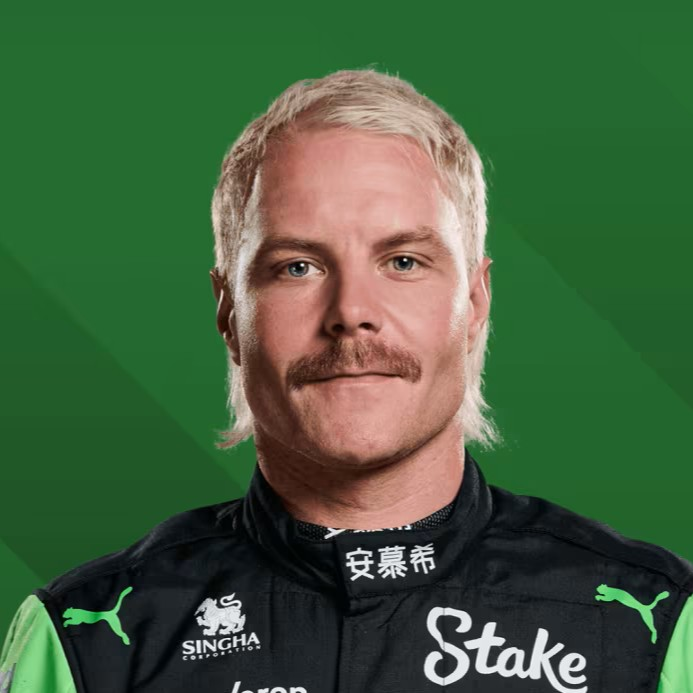
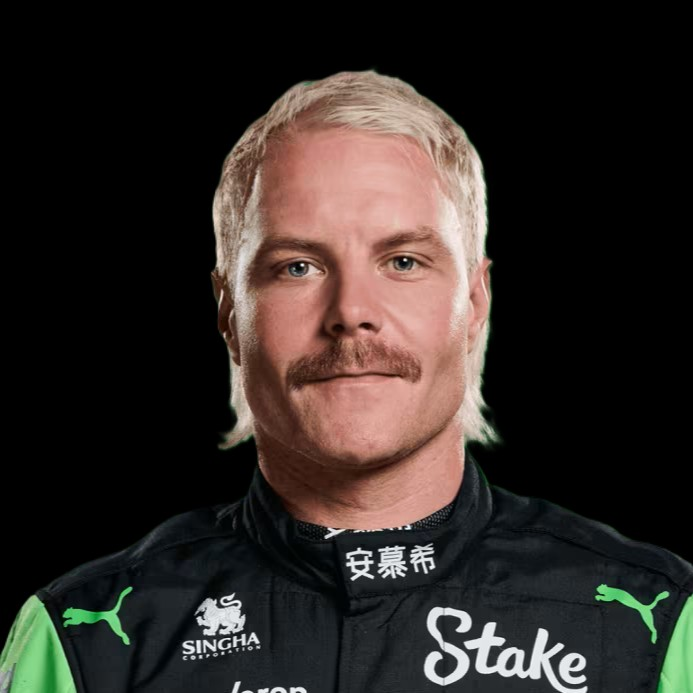
modified imgs of drivers to be dark in dark mode and white in light mode

diff --git a/js/master.js b/js/master.js
@@ -20,6 +20,8 @@ document.addEventListener("click", event => {
 // Mode Options
 
 const modes = document.querySelectorAll(".settings-box .mode-options span i");
+const driversImgs = document.querySelectorAll(".drivers .driver-box .driver-info img");
+let imgsPath = ["lewis-hamilton-mercedes.jpg", "max-verstappen-red-bull-racing.jpg", "CharlesLeclerc.png", "lando-norris-mclaren.jpg", "fernando-alonso-aston-martin-r.jpg", "esteban-ocon-alpine.jpg", "ValtteriBottas.jpg", "kevinmagnussen.png", "alex-albon-williams.jpg", "yuki-tsunoda-racing-bulls.jpg"];
 
 if (localStorage.getItem("mode") !== null) {
   if (localStorage.getItem("mode") == 'true') {
@@ -30,6 +32,12 @@ if (localStorage.getItem("mode") !== null) {
     document.documentElement.style.setProperty("--bg-color", "#EEE");
     document.documentElement.style.setProperty("--border-color", "#DDD");
     document.documentElement.style.setProperty("--shadow-color", "#FFFFFF18");
+
+    let i = 0;
+    driversImgs.forEach((img) => {
+      img.src = `imgs/driversLightMode/${imgsPath[i]}`;
+      i++;
+    });
   }
 }
 
@@ -44,6 +52,12 @@ modes.forEach(mode => {
       document.documentElement.style.setProperty("--bg-color", "#EEE");
       document.documentElement.style.setProperty("--border-color", "#DDD");
       document.documentElement.style.setProperty("--shadow-color", "#00000053");
+
+      let i = 0;
+      driversImgs.forEach((img) => {
+        img.src = `imgs/driversLightMode/${imgsPath[i]}`;
+        i++;
+      });
     } else {
       localStorage.setItem("mode", false);
       document.documentElement.style.setProperty("--main-color", "#000");
@@ -53,6 +67,12 @@ modes.forEach(mode => {
       document.documentElement.style.setProperty("--font-color4", "#999");
       document.documentElement.style.setProperty("--border-color", "#555");
       document.documentElement.style.setProperty("--shadow-color", "#FFFFFF20");
+
+      let i = 0;
+      driversImgs.forEach((img) => {
+        img.src = `imgs/drivers/${imgsPath[i]}`;
+        i++;
+      });
     }
   });
 });

diff --git a/css/master.css b/css/master.css
@@ -91,11 +91,11 @@ a {
 }
 
 ::-webkit-scrollbar-track {
-  background: #222;
+  background: #111;
 }
 
 ::-webkit-scrollbar-thumb {
-  background: linear-gradient(to bottom, #000 20%, var(--selector-color));
+  background: linear-gradient(to bottom, var(--main-color) 20%, var(--selector-color));
   border-radius: 10px;
 }
 

diff --git a/index.html b/index.html
@@ -383,7 +383,9 @@
     <!-- End Drivers -->
     <!-- Start Cars -->
     <div class="cars" id="cars">
-
+      <div class="container">
+        <h2 class="h2">F1 Cars</h2>
+      </div>
     </div>
     <!-- End Cars -->
     <!-- Start Race Schedules -->
